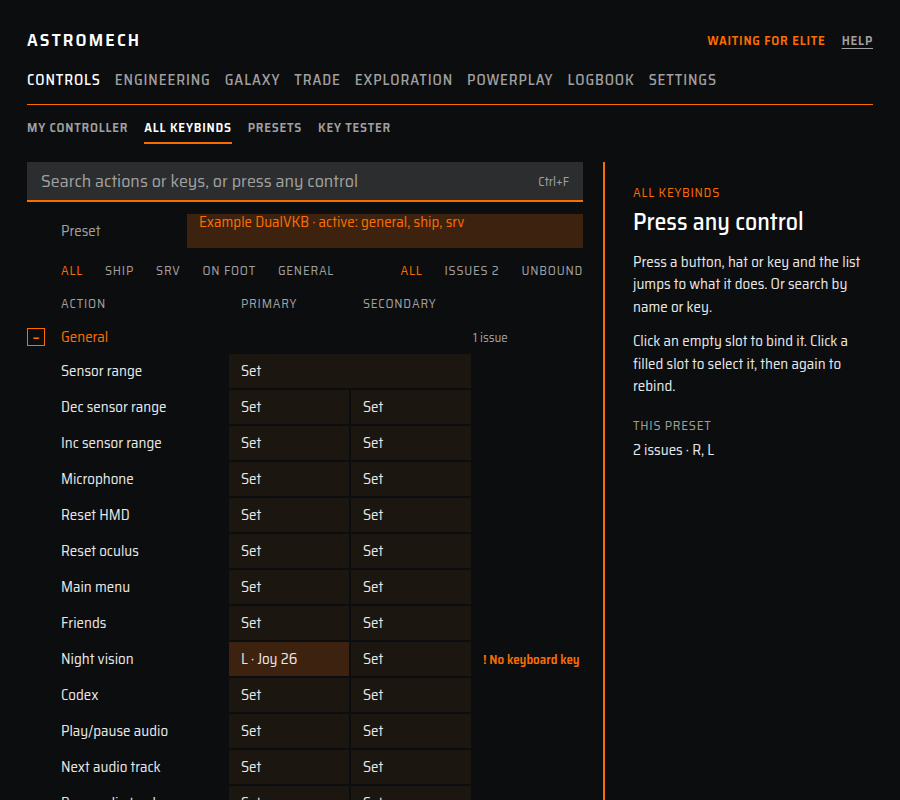
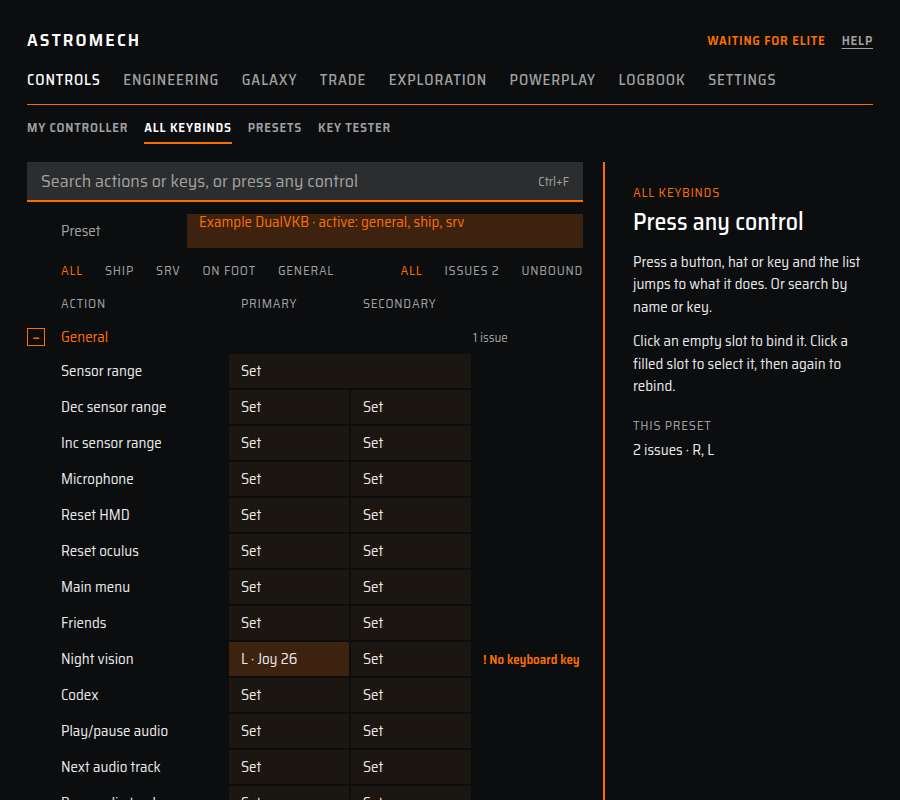
Header: stack once as the window narrows, not on and off around 1100 px (astromech-ak62, review R2 astromech-vha1)
The 1100 px media query shrank the header and tab gaps, so a header that had stacked at 1180 px
fitted one row again at 1080-1100 px and stacked again below 1060 px. The header's gaps now scale
with the window only, so the width one row needs grows steadily with it. Swept 1600 down to 800
and back in 20 px steps on Keybinds: one switch each way at the same width (1180/1200 px; with
Finish setup 1320/1340; with the long status 1420/1440) and no page overflow at any width.

Changed region(s): [[0.1244, 0.0938, 0.8711, 0.125]]

diff --git a/app/src/App.svelte b/app/src/App.svelte
@@ -162,9 +162,9 @@
   header.stacked { flex-wrap: wrap; row-gap: 14px; }
   header.stacked .app { margin-right: auto; }
   header.stacked nav { order: 1; flex-basis: 100%; }
+  /* The header's gaps scale with the window only (no breakpoint), so the width one row needs grows
+     steadily with it: the header stacks once as the window narrows and stays stacked below that. */
   @media (max-width: 1100px) {
-    header { gap: 16px; }
-    nav { gap: 14px; }
     nav.sub { gap: 16px; }
     main.split { display: flex; flex-direction: column; overflow: auto; padding-right: clamp(16px, 3vw, 40px); }
     .find { padding: 20px 0 24px; overflow: visible; flex: none; }
